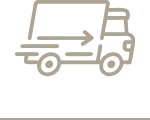
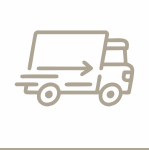
check1

Changed region(s): [[0.0805, 0.0, 0.9128, 0.725], [0.0, 0.975, 1.0, 1.0]]

diff --git a/index.html b/index.html
@@ -145,37 +145,37 @@
 				<div class="col-sm-1 col-xs-12"></div>
 				<div class="col-sm-2 col-xs-12">
 					<div class="how-work__icon">
-					<img src="images/icons_services_1.png" alt="">
+					<img src="images/icons_services_1.png" alt=""><h4>Ваша заявка</h4>
 				</div>
 			</div>
 				<div class="col-sm-1 col-xs-12">
 					<div class="how-work__arrow">
-					<img src="images/icons_services_arrow.png" alt="">
+					<img src="images/arrow.png" alt="">
 				</div>
 				</div>
 				<div class="col-sm-2 col-xs-12">
 					<div class="how-work__icon">
-					<img src="images/icons_services_2.png" alt="">
+					<img src="images/icons_services_2.png" alt=""><h4>Доставка в хімчистку</h4>
 				</div>
 				</div>
 				<div class="col-sm-1">
 					<div class="how-work__arrow">
-					<img src="images/icons_services_arrow.png" alt="">
+					<img src="images/arrow.png" alt="">
 				</div>
 				</div>
 				<div class="col-sm-2 col-xs-12">
 					<div class="how-work__icon">
-					<img src="images/icons_services_3.png" alt="">
+					<img src="images/icons_services_3.png" alt=""><h4>Чистка та  правильна сушка</h4>
 				</div>
 				</div>
 				<div class="col-sm-1 col-xs-12">
 					<div class="how-work__arrow">
-					<img src="images/icons_services_arrow.png" alt="">
+					<img src="images/arrow.png" alt="">
 				</div>
 				</div>
 				<div class="col-sm-1 col-xs-12">
 					<div class="how-work__icon">
-					<img src="images/icons_services_4.png" alt="">
+					<img src="images/icons_services_4.png" alt=""><h4>доставка додому</h4>
 				</div>
 				</div>
 			</div>
@@ -184,19 +184,15 @@
 	<div class="clear_our_mashines"></div>
 	<div class="our_mashines">
 			<div class="our_mashines__right">
-				<h1 class="our_mashines__titte">Про нас</h1>
+				<h1 class="our_mashines__titte">Наше обладнання</h1>
 				<div class="our_mashines__text">
-				Якісна хімчистка килимів та одягу - це Зручно Вам!
-				Ми пишаємося нашою роботою та нашими відносинами з  клієнтами.
-				Ми використовуємо найкращі засоби та найсучасніше обладнання, щоб зробити наші послуги максимально ефективними, забезпечуючи найвищий рівень обслуговування ваших  речей.
-				<br>
-				Ви пробували все інше, тепер спробуйте найкраще!
+					Головною запорукою якісної чистки є найкраще італійське обладняння, яке допомагає нам позбутися від серйозних забруднень і пилу.
+					Тому компанія "Зручно Вам" пропонує вам послуги професійного чищення одягу і килимів.
+					Чистка проводиться лише у спеціально обладнаному приміщенні.
+					Наші співробітники в своїй роботі застосовують спеціальні пристрої і тільки кращі хімічні засоби, щоб позбавити килим пилу і забруднень.
 				</div>
 			</div>
 		<div class="our_mashines__left">
-
-
-
 		</div>
 	</div>
 	<div class="clear_our_mashines"></div>
@@ -305,7 +301,27 @@
 		<div class="row">
 			<h1></h1>
 		</div>
-
+	</div>
+	<div class="form_bloc">
+		<form class="form-horizontal">
+			<div class="form-group">
+				<label for="mail" class=" control-label"></label>
+				<div class="form_bloc__name">
+					<input type="" class="form-control" id="mail" placeholder="Ім’я">
+				</div>
+			</div>
+			<div class="form-group">
+				<label for="phone" class="control-label"></label>
+				<div class="form_bloc__phone">
+					<input type="" class="form-control" id="phone" placeholder="Номер телефону">
+				</div>
+			</div>
+			<div class="form-group">
+				<div class="form_bloc__btn">
+					<button type="submit" class="btn btn-warning nav__btn">замовити ЧИСТКУ</button>
+				</div>
+			</div>
+		</form>
 	</div>
 
 </main>

diff --git a/style/main.css b/style/main.css
@@ -120,7 +120,7 @@
 	text-transform: uppercase;
 }
 .services__name {
-	font-size: 22px;
+	font-size: 20px;
 	color: #5a5a5a;
 	padding-top: 27px;
 	padding-bottom: 20px;
@@ -131,10 +131,10 @@
 }
 .services__caption {
 	padding-bottom: 50px;
-	font-size: 14px;
+	font-size: 11px;
 	color: #7e7e7e;
 	text-align: center;
-	line-height: 23px;
+	line-height: 17px;
 }
 
 .company-info {
@@ -176,29 +176,49 @@
 }
 
 .how-work__icon {
-	vertical-align: bottom;
+	vertical-align: top;
+}
+.how-work__icon h4 {
+	font-size: 18px;
+	text-align: center;
+	color: #635e55;
+	text-transform: uppercase;
+}
+.how-work__arrow img {
+	vertical-align: top;
 }
 /*our_mashines*/
 .our_mashines__right {
 	background: #f9ebd3;
 	width: 50%;
 	float: left;
-}
-
-.our_mashines__left {
-	background: url("../images/awer_mashins.jpg")no-repeat right;
-	width: 50%;
 	display: block;
-	width: 50%;
-	height: 100%;
-	background: #f2e4cc;
-	opacity: .7;
-	float: right;
 	font-size: 16px;
 	padding: 1px 50px;
 	line-height: 32px;
 	text-align: left;
 	overflow: hidden;
+	height: 518px;
+}
+
+.our_mashines__left {
+	background: url("../images/awer_mashins.jpg")no-repeat right;
+	width: 50%;
+	height: 518px;
+	float: right;
+	display: block;
+}
+.our_mashines__text {
+	font-size: 16px;
+	color: #5a5a5a;
+	text-align: left;
+	padding: 10px 20px;
+}
+.our_mashines__titte {
+	font-size: 36px;
+	color: #5a5a5a;
+	text-align: left;
+	padding: 10px 20px;
 }
 
 /*company-feature*/
@@ -240,6 +260,32 @@
 	color: #7e7e7e;
 	font-weight: 200;
 }
+
+/*forb_bloc*/
+.form_bloc {
+	background: url("../images/bacgra_fut.jpg")no-repeat center;
+	background-size: cover;
+	height: 431px;
+}
+.form-group {
+	width: 270px;
+	height: 46px;
+	align-items: center;
+	text-align: center;
+
+}
+.form-control {
+	background: #9ecbce;
+	opacity: 0.5;
+
+}
+.form_bloc__name{
+
+}
+/*media*/
+
+
+
 @media screen and (max-width: 991px) {
 	.navbar-brand {
 
@@ -270,12 +316,25 @@
 	.navbar-nav {
 	width: 70%;
 }
+	.our_mashines__left {
+		width: 100%;
+		background-size: cover;
+	}
+	.our_mashines__right {
+		width: 100%;
+		background-size: cover;
+		height: 340px;
+	}
 
 }
 @media screen and (max-width: 426px) {
 	.company-info__text {
 	line-height: 25px
 }
+	.our_mashines__right {
+		height: 340px;
+		line-height: 24px;
+	}
 
 }
 @media screen and (max-width: 750px) {
